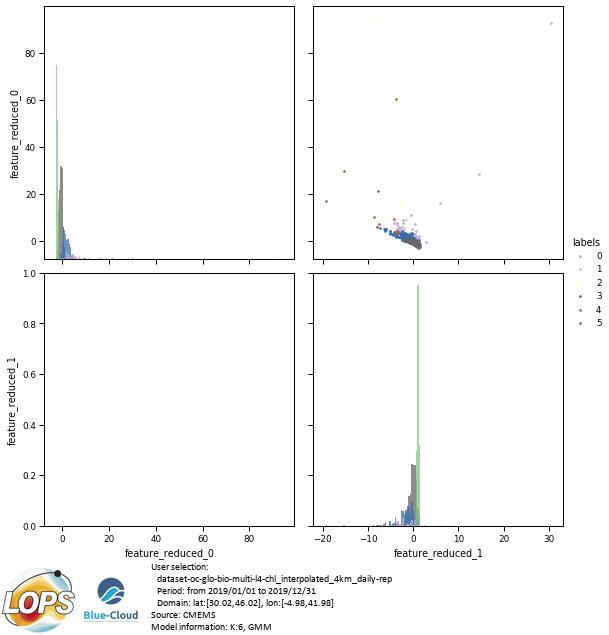
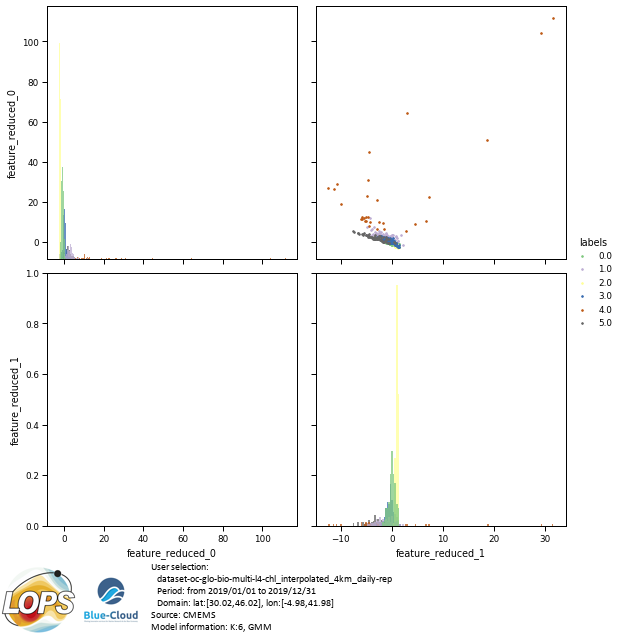
[update] change legend imputs in scatter plot for avoid warning

diff --git a/Plotter_OR.py b/Plotter_OR.py
@@ -90,7 +90,6 @@ class Plotter_OR:
             plt.cm.get_cmap(name=self.cmap_name), self.m.K)
         plt.cm.register_cmap("mycolormap", cmap)
         cpal = sns.color_palette("mycolormap", n_colors=self.m.K)
-        print(cpal)
 
         #convert to dataframe
         ds_p = self.ds[var_name]
@@ -115,9 +114,7 @@ class Plotter_OR:
         df = df.rename(columns={0: "feature_reduced_0",
                                 1: "feature_reduced_1", '': "labels"})
         # when not all classes in subset
-        print(np.unique(df["labels"]).astype(int))
         cpal = [cpal[i] for i in np.unique(df["labels"]).astype(int)]
-        print(cpal)
 
         defaults = {'height': 4, 'aspect': 1, 'hue': 'labels',
                     'despine': False, 'palette': cpal}
@@ -126,7 +123,7 @@ class Plotter_OR:
         g.map_diag(sns.histplot, edgecolor=None, alpha=0.75)
         g = g.map_upper(plt.scatter, s=3)
 
-        g.add_legend(labels=range(self.m.K))
+        g.add_legend()
 
     def pie_classes(self):
         """Pie chart of classes
